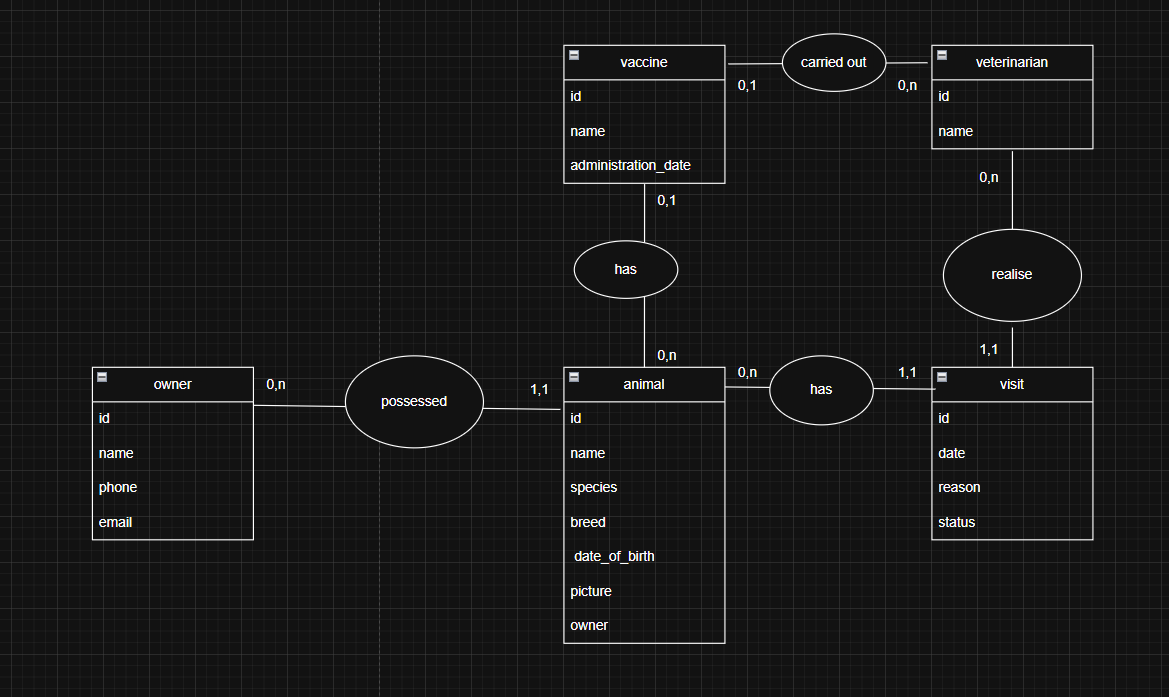
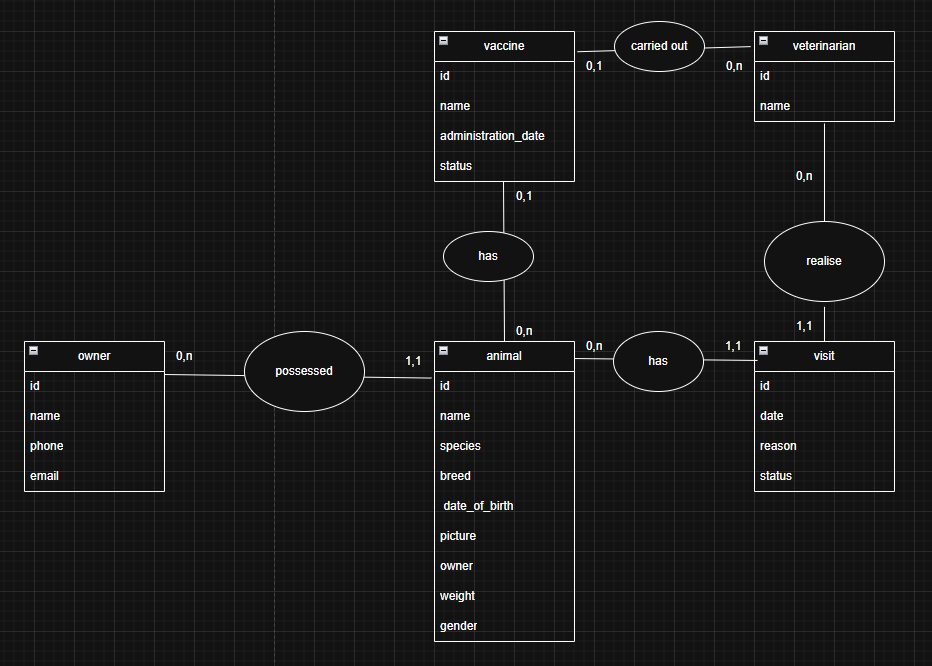
update mcd dd and json with new data

diff --git a/src/components/animalTabs/AnimalTabs.jsx b/src/components/animalTabs/AnimalTabs.jsx
@@ -16,7 +16,7 @@ export default function AnimalTabs({ animal, visits, vaccins}) {
           <section className={styles.informationContent}>
             <h1>Informations de <strong>{animal.name}</strong></h1> 
             <div>
-            <img src="/icons/dog.svg" alt="icone de chien" />
+            <img src="/icons/dog-p.svg" alt="icone de chien" />
             <p>{animal.species} - {animal.breed}</p> 
             <p className={styles.date}>{formatDate(animal.date_of_birth)}</p>
        

diff --git a/src/components/navBar/NavBar.jsx b/src/components/navBar/NavBar.jsx
@@ -24,7 +24,6 @@ export default function NavBar() {
           width={32}
           height={32}
         />
-        {/* <svg src= "/icons/dog.svg"/> */}
       </Link>
     </nav>
   );

diff --git a/docs/dictionnaireDeDonnes.md b/docs/dictionnaireDeDonnes.md
@@ -1,5 +1,6 @@
 # Dictionnaire de données 
 
+
 | Table        | Code                        | Libellé / Description                         | Type    | Taille | Règles de gestion                                                    |
 |--------------|-----------------------------|-----------------------------------------------|---------|--------|-----------------------------------------------------------------------|
 | owner        | id_owner                    | Identifiant unique du propriétaire            | integer | -      | obligatoire, unique                                                   |
@@ -13,6 +14,8 @@
 | animal       | species_animal              | Espèce (ex : Chien, Chat)                     | varchar | 50     | obligatoire                                                           |
 | animal       | breed_animal                | Race                                          | varchar | 50     | obligatoire                                                           |
 | animal       | date_of_birth_animal        | Date de naissance                             | date    | -      | obligatoire                                                           |
+| animal       | gender_animal               | Sexe de l’animal                               | varchar | 10     | obligatoire, ENUM (Male/Female/Autre)                                 |
+| animal       | weight_animal               | Poids de l’animal                              | decimal | 5,2    | facultatif, en kg                                                     |
 | animal       | picture_animal              | URL ou chemin de la photo                     | varchar | 255    | obligatoire                                                           |
 | animal       | owner_id_animal             | Identifiant du propriétaire                   | integer | -      | obligatoire, clé étrangère (owner.id_owner)                           |
 | visit        | id_visit                    | Identifiant unique de la visite               | integer | -      | obligatoire, unique                                                   |
@@ -24,6 +27,7 @@
 | vaccine      | id_vaccine                  | Identifiant unique du vaccin                  | integer | -      | obligatoire, unique                                                   |
 | vaccine      | name_vaccine                | Nom du vaccin                                 | varchar | 50     | obligatoire                                                           |
 | vaccine      | administration_date_vaccine | Date d’administration                         | date    | -      | nullable                                                              |
+| vaccine      | status_vaccine              | Statut (« à venir », « passée », « annulée ») | varchar | 20     | obligatoire, ENUM                                                     |
 | vaccine      | animal_id_vaccine           | Identifiant de l’animal vacciné               | integer | -      | nullable, clé étrangère (animal.id_animal)                           |
 | vaccine      | veterinarian_id_vaccine     | Identifiant du vétérinaire ayant injecté      | integer | -      | nullable, clé étrangère (veterinarian.id_veterinarian)              |
 
@@ -47,7 +51,6 @@
 - 1 vétérinaire : 0 à n vaccins  
 - 1 vaccin peut être non injecté (veterinarian_id_vaccine = NULL)  
 - Si injecté → lié à 1 seul vétérinaire
-
 
 ### Owners → Animals
 - 1 owner peut posséder 0 à n animals
